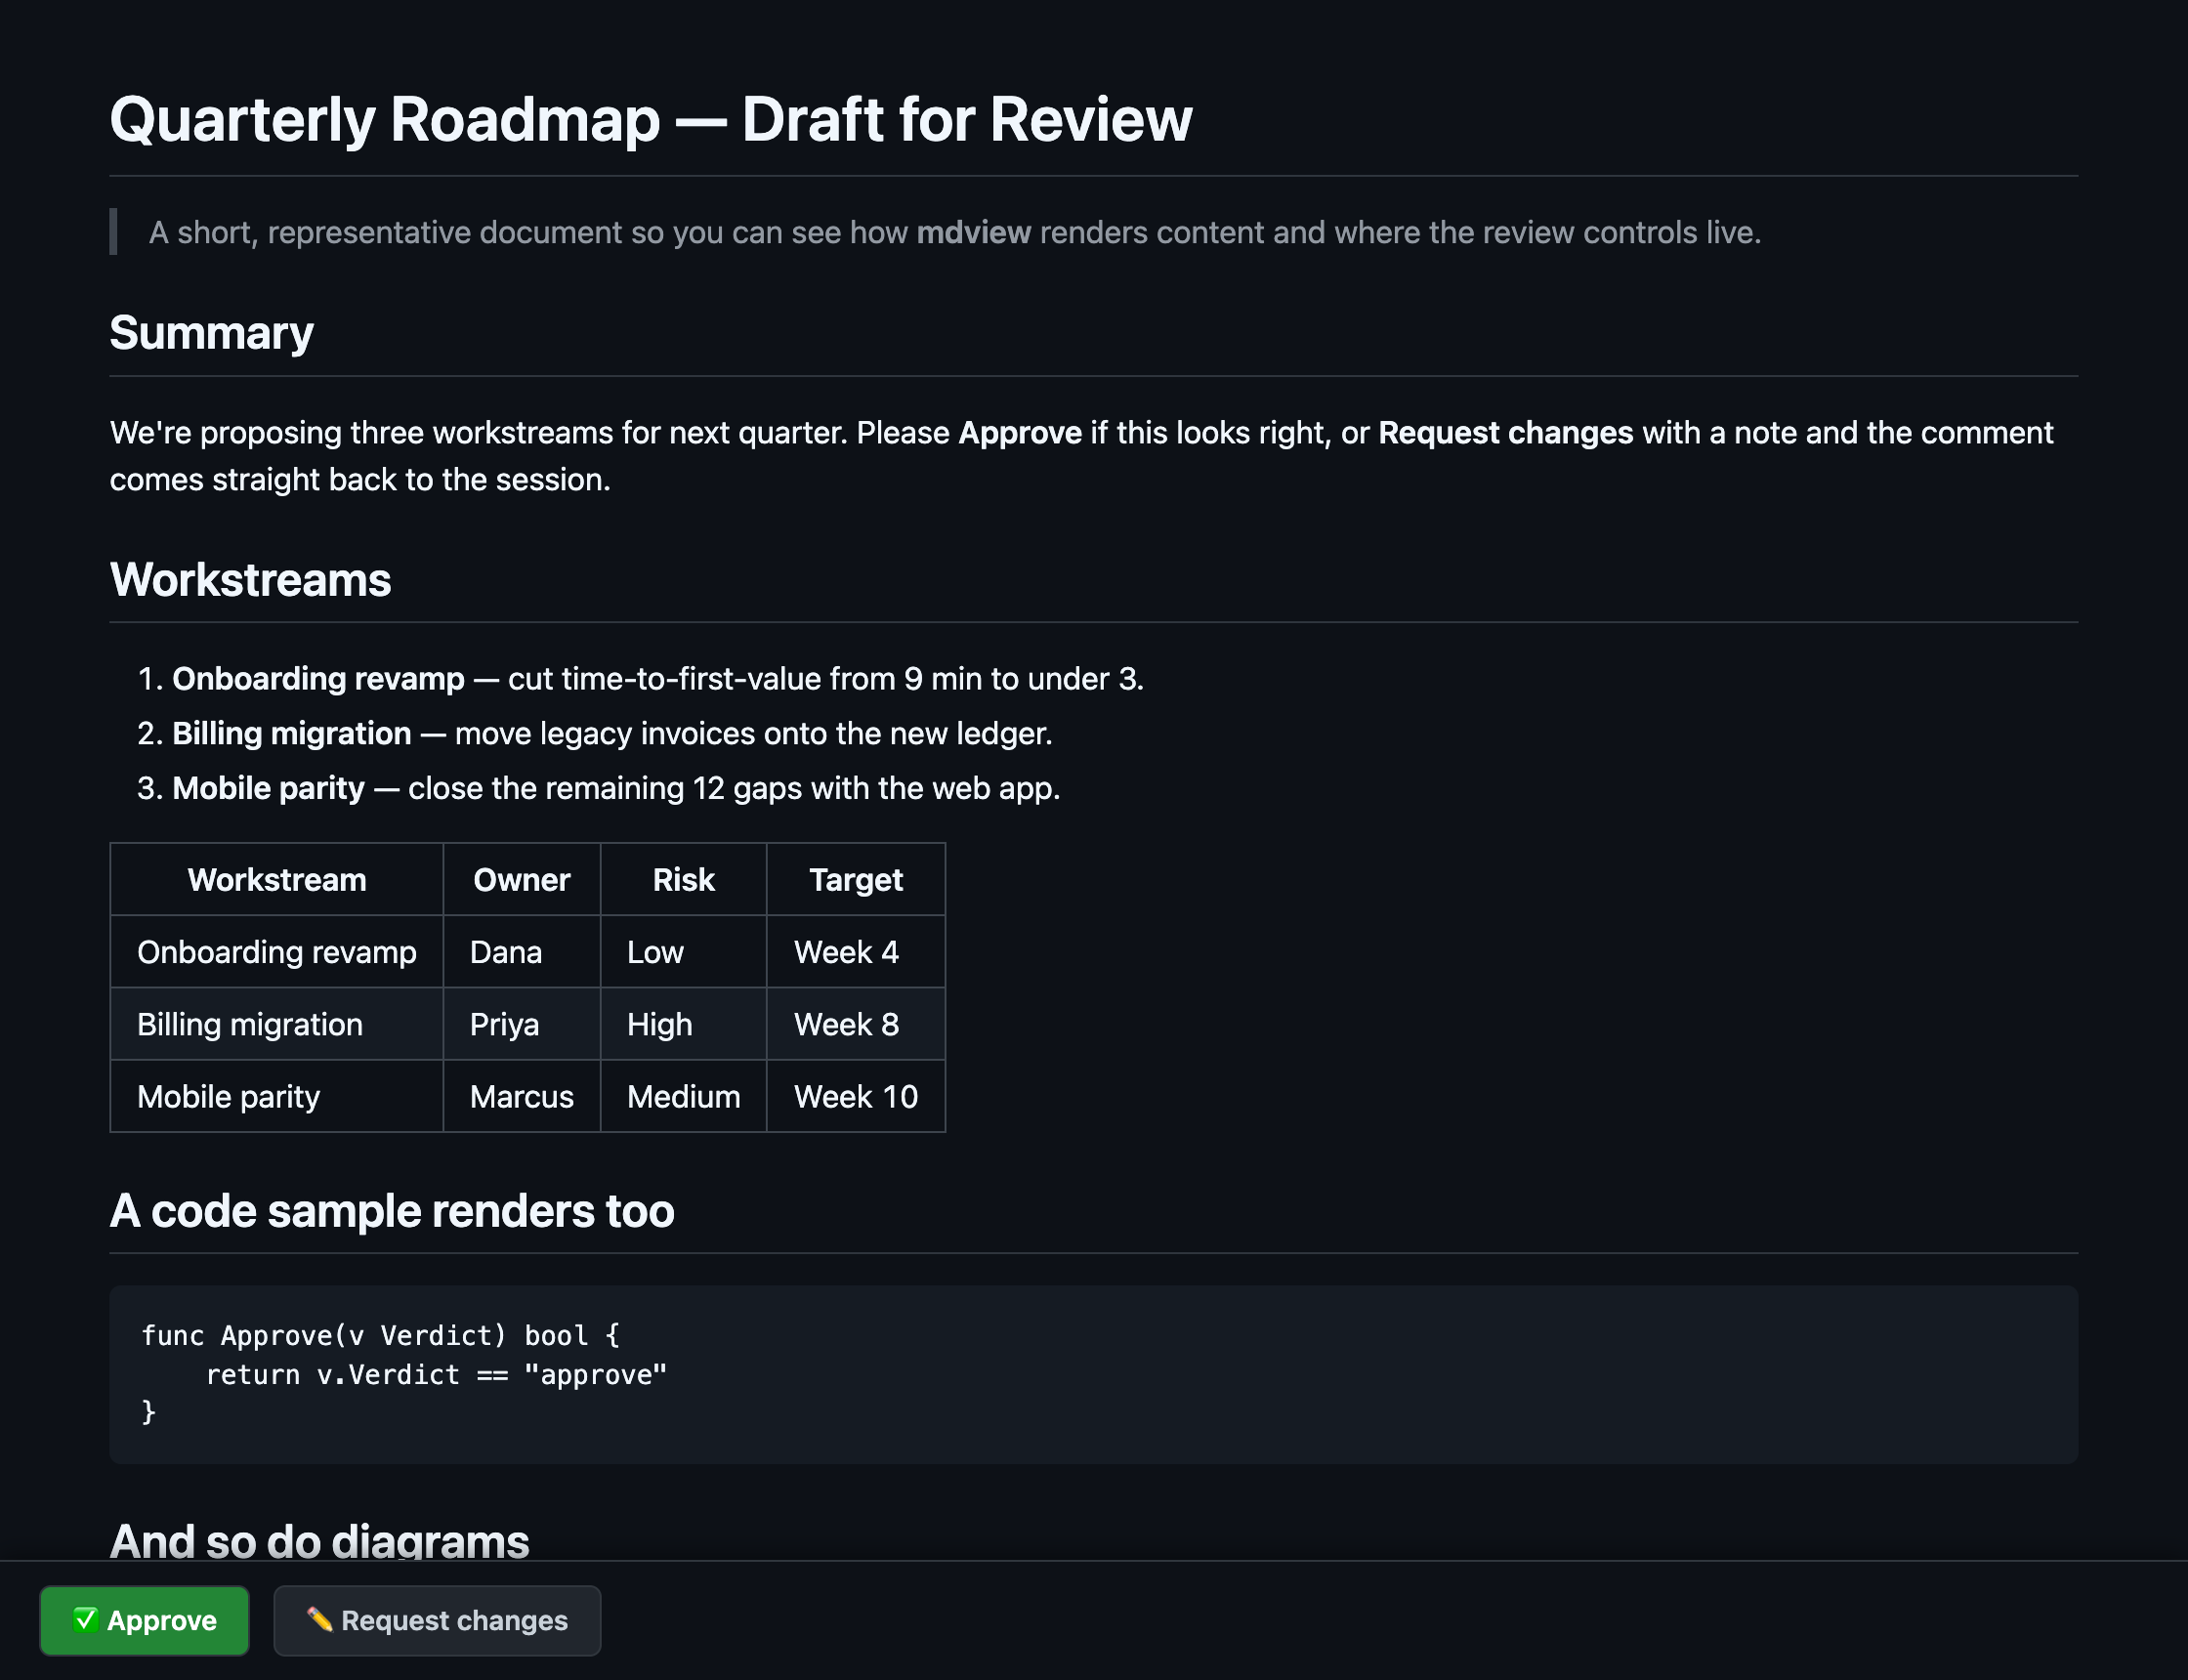
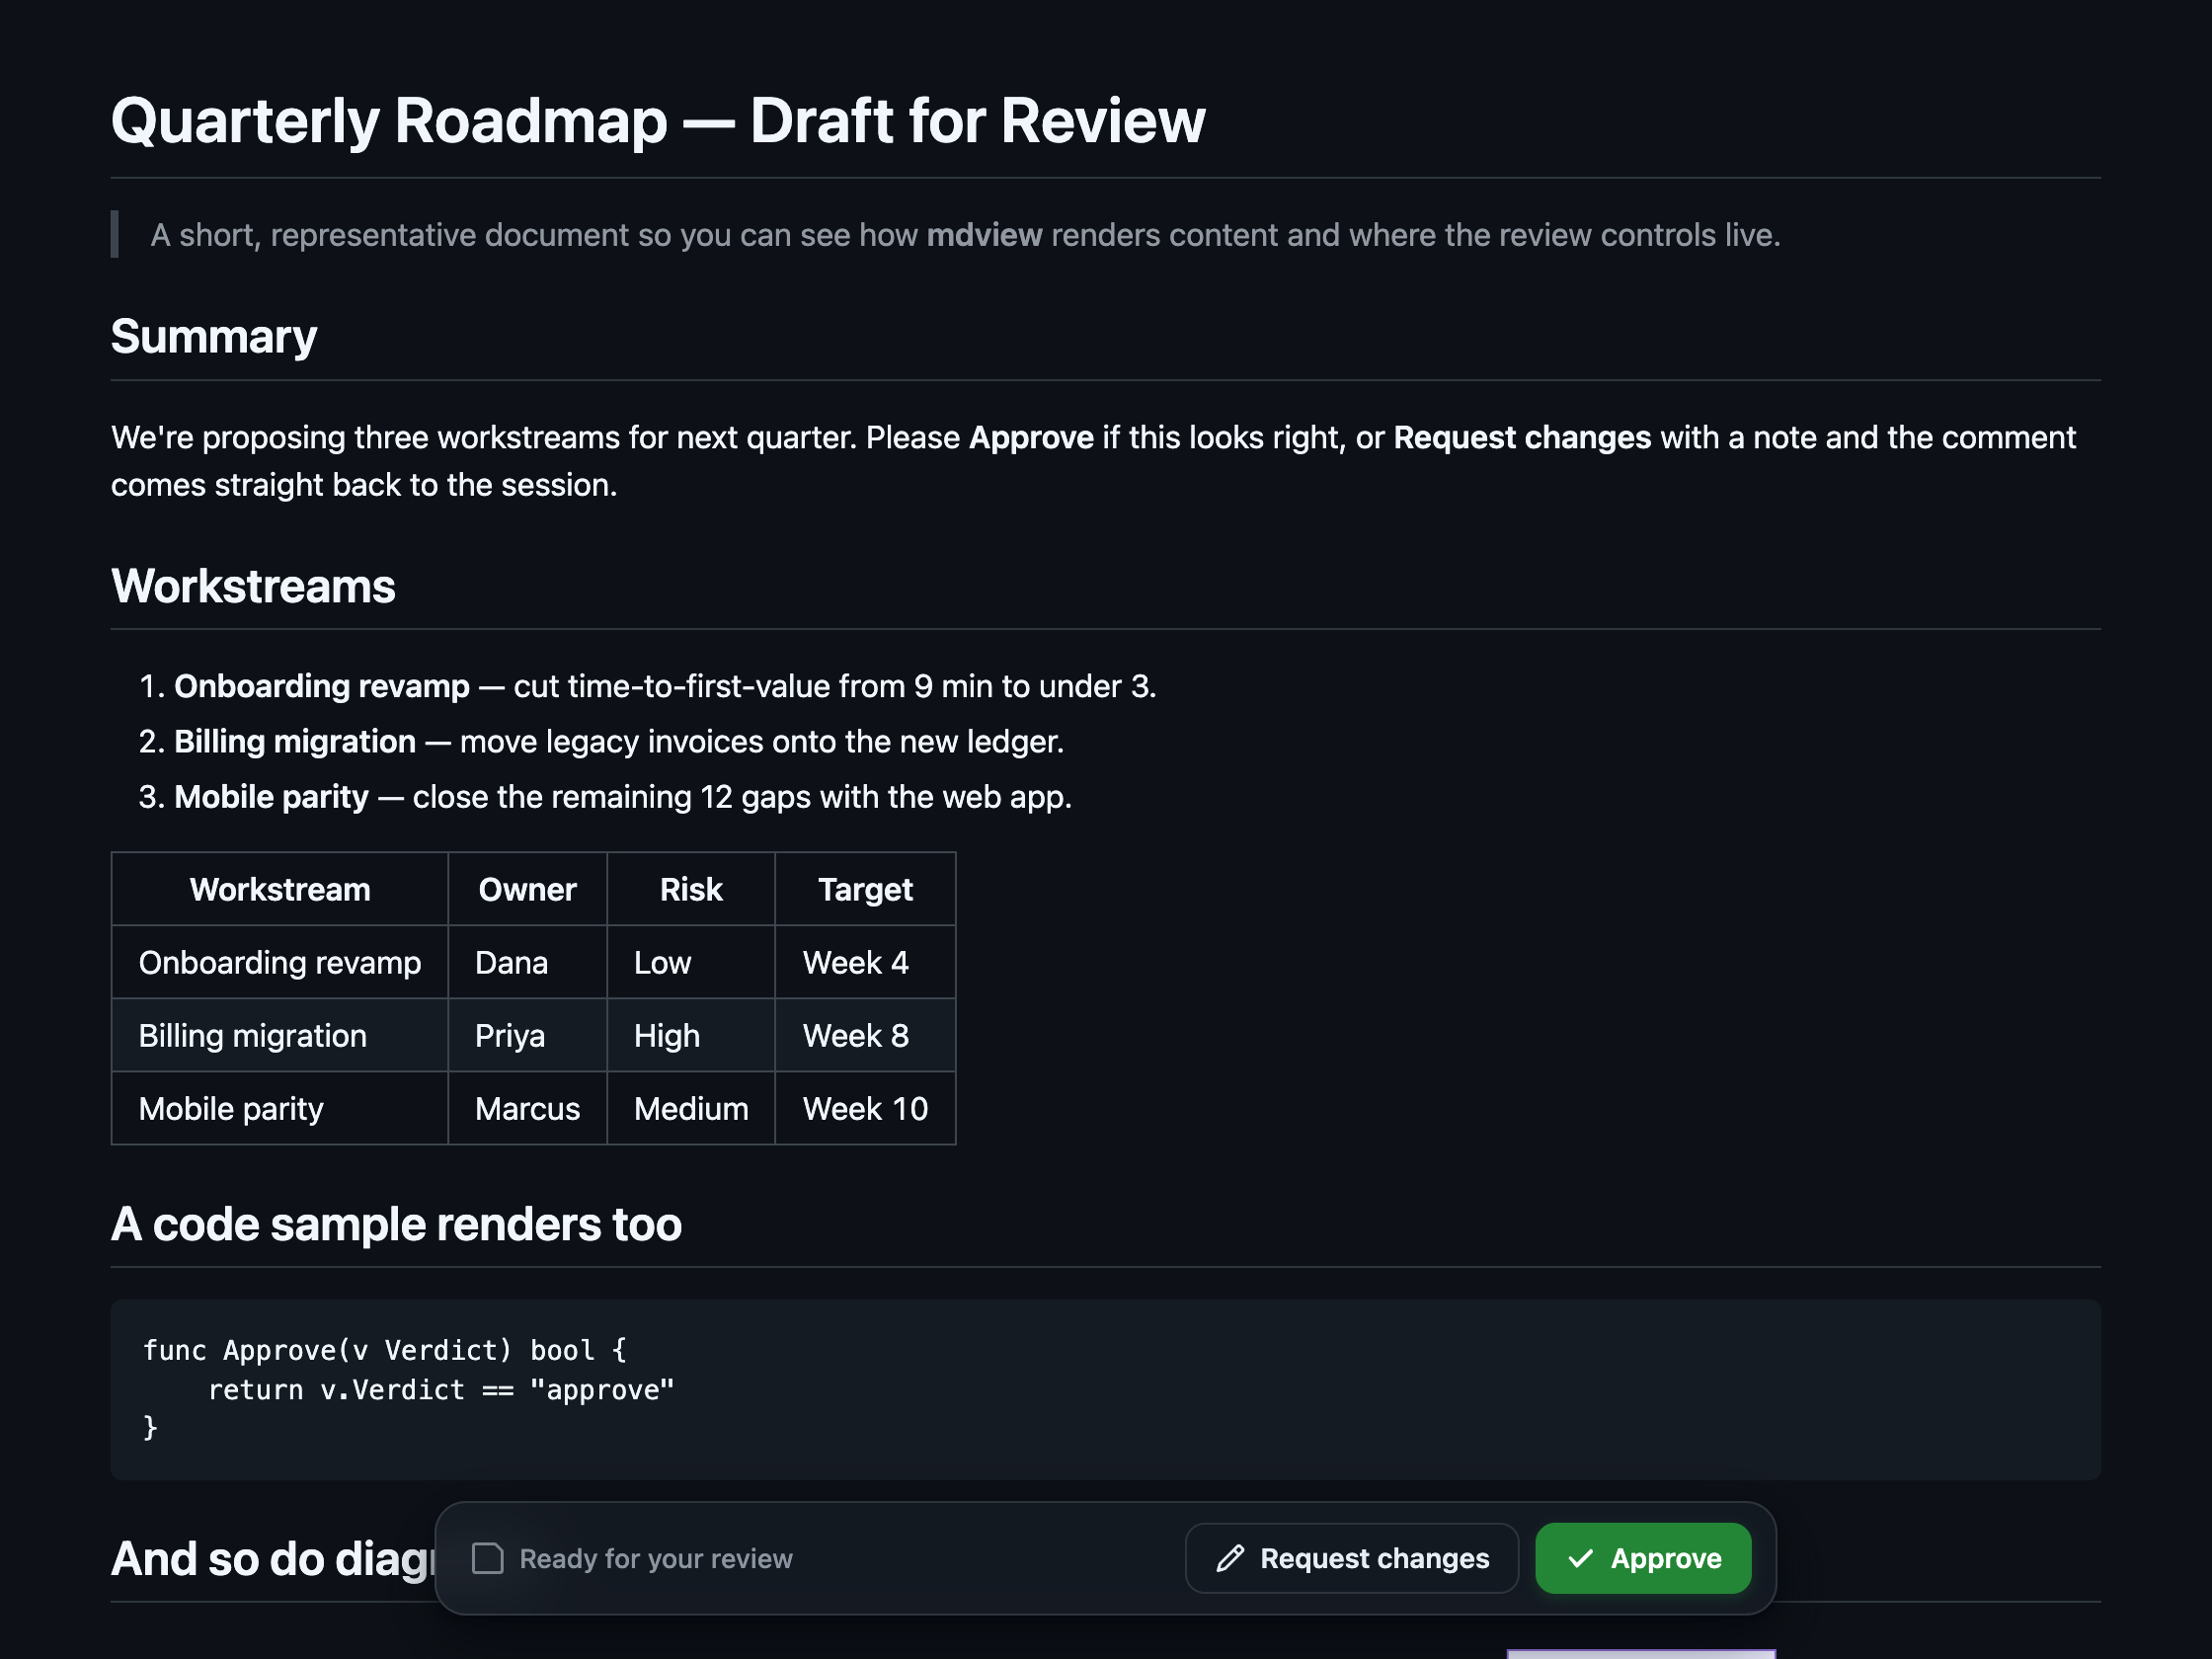
feat(ui): premium floating review dock; flush 204, constant-time token, mermaid strict, browser-open diag; tests + new demo shots

diff --git a/internal/render/assets/review.css b/internal/render/assets/review.css
@@ -1,22 +1,92 @@
-#mdview-bar{position:fixed;left:0;right:0;bottom:0;z-index:99999;display:flex;gap:12px;
-  align-items:flex-start;padding:12px 20px;background:#fff;border-top:1px solid #d0d7de;
-  box-shadow:0 -2px 12px rgba(0,0,0,.08);font:14px -apple-system,system-ui,sans-serif;}
-#mdview-bar button{font:600 14px -apple-system,system-ui,sans-serif;padding:8px 16px;
-  border-radius:6px;border:1px solid #d0d7de;cursor:pointer;}
-#mdview-approve{background:#1f883d;color:#fff;border-color:#1a7f37;}
-#mdview-changes{background:#f6f8fa;color:#24292f;}
-#mdview-panel{display:none;flex-direction:column;gap:8px;flex:1;}
-#mdview-panel.open{display:flex;}
-#mdview-comment{width:100%;min-height:64px;padding:8px;border-radius:6px;border:1px solid #d0d7de;
-  font:14px -apple-system,system-ui,sans-serif;resize:vertical;box-sizing:border-box;}
-#mdview-panel-actions{display:flex;gap:8px;}
-#mdview-status{color:#57606a;font:14px -apple-system,system-ui,sans-serif;}
+#mdview-bar{
+  --mv-bg:rgba(255,255,255,.82);
+  --mv-border:rgba(27,31,36,.12);
+  --mv-fg:#1f2328;
+  --mv-muted:#656d76;
+  --mv-shadow:0 12px 32px rgba(31,35,40,.16),0 2px 6px rgba(31,35,40,.08);
+  --mv-primary:#1f883d;--mv-primary-2:#1a7f37;--mv-on-primary:#fff;
+  --mv-ghost-hover:rgba(27,31,36,.06);
+  --mv-field-bg:#fff;--mv-field-border:rgba(27,31,36,.15);
+  --mv-ring:rgba(31,136,61,.35);
 
-@media (prefers-color-scheme: dark) {
-  #mdview-bar{background:#0d1117;border-top-color:#30363d;box-shadow:0 -2px 12px rgba(0,0,0,.5);}
-  #mdview-bar button{border-color:#30363d;}
-  #mdview-approve{background:#238636;border-color:#2ea043;color:#fff;}
-  #mdview-changes{background:#21262d;color:#c9d1d9;}
-  #mdview-comment{background:#0d1117;color:#c9d1d9;border-color:#30363d;}
-  #mdview-status{color:#8b949e;}
+  position:fixed;left:50%;bottom:22px;z-index:99999;box-sizing:border-box;
+  width:min(680px,calc(100% - 32px));
+  background:var(--mv-bg);
+  -webkit-backdrop-filter:saturate(180%) blur(14px);backdrop-filter:saturate(180%) blur(14px);
+  border:1px solid var(--mv-border);border-radius:16px;box-shadow:var(--mv-shadow);
+  padding:10px 12px;color:var(--mv-fg);
+  font-family:-apple-system,BlinkMacSystemFont,system-ui,"Segoe UI",sans-serif;
+  animation:mv-rise .42s cubic-bezier(.2,.8,.2,1) both;
+  transition:width .2s ease;
+}
+#mdview-bar,#mdview-bar *{box-sizing:border-box}
+@keyframes mv-rise{from{opacity:0;transform:translate(-50%,16px)}to{opacity:1;transform:translate(-50%,0)}}
+#mdview-bar{transform:translateX(-50%)}
+
+#mdview-row{display:flex;align-items:center;gap:12px;justify-content:space-between}
+#mdview-label{display:inline-flex;align-items:center;gap:8px;padding-left:6px;
+  font-size:13.5px;font-weight:500;color:var(--mv-muted);white-space:nowrap}
+#mdview-label svg{width:16px;height:16px;opacity:.85}
+#mdview-buttons{display:flex;align-items:center;gap:8px}
+
+.mv-btn{display:inline-flex;align-items:center;gap:7px;cursor:pointer;
+  font-size:14px;font-weight:600;line-height:1;padding:9px 14px;border-radius:10px;
+  border:1px solid transparent;font-family:inherit;
+  transition:transform .12s ease,box-shadow .12s ease,background .12s ease,border-color .12s ease}
+.mv-btn svg{width:16px;height:16px;flex:none}
+.mv-btn:focus-visible{outline:none;box-shadow:0 0 0 3px var(--mv-ring)}
+
+.mv-primary{background:var(--mv-primary);color:var(--mv-on-primary);
+  box-shadow:0 1px 2px rgba(31,35,40,.2),0 2px 6px rgba(31,136,61,.25)}
+.mv-primary:hover{background:var(--mv-primary-2);transform:translateY(-1px);
+  box-shadow:0 4px 12px rgba(31,136,61,.35)}
+.mv-primary:active{transform:translateY(0);box-shadow:0 1px 2px rgba(31,35,40,.2)}
+.mv-primary:disabled{opacity:.5;cursor:default;transform:none;box-shadow:none}
+
+.mv-ghost{background:transparent;color:var(--mv-fg);border-color:var(--mv-border)}
+.mv-ghost:hover{background:var(--mv-ghost-hover)}
+.mv-ghost:active{transform:translateY(0)}
+
+#mdview-panel{display:none;flex-direction:column;gap:10px;padding:4px 6px 6px}
+#mdview-bar.panel-open{width:min(680px,calc(100% - 32px))}
+#mdview-bar.panel-open #mdview-row{display:none}
+#mdview-bar.panel-open #mdview-panel{display:flex;animation:mv-fade .2s ease both}
+@keyframes mv-fade{from{opacity:0;transform:translateY(4px)}to{opacity:1;transform:translateY(0)}}
+#mdview-panel-head{display:flex;align-items:center;justify-content:space-between;gap:8px}
+#mdview-panel-head>span{font-size:13.5px;font-weight:600}
+#mdview-hint{font-size:11.5px;color:var(--mv-muted);
+  font-family:ui-monospace,SFMono-Regular,Menlo,monospace;
+  background:var(--mv-ghost-hover);padding:3px 7px;border-radius:6px}
+#mdview-comment{width:100%;min-height:76px;resize:vertical;padding:10px 12px;border-radius:10px;
+  border:1px solid var(--mv-field-border);background:var(--mv-field-bg);color:var(--mv-fg);
+  font-family:inherit;font-size:14px;line-height:1.5;
+  transition:border-color .12s ease,box-shadow .12s ease}
+#mdview-comment::placeholder{color:var(--mv-muted)}
+#mdview-comment:focus{outline:none;border-color:var(--mv-primary);box-shadow:0 0 0 3px var(--mv-ring)}
+#mdview-panel-actions{display:flex;justify-content:flex-end;gap:8px}
+
+#mdview-bar.mv-done{width:min(440px,calc(100% - 32px))}
+.mv-confirm{display:flex;align-items:center;justify-content:center;gap:10px;padding:9px;
+  font-size:14px;font-weight:500;color:var(--mv-fg);animation:mv-fade .25s ease both}
+.mv-confirm svg{width:20px;height:20px;color:var(--mv-primary);flex:none}
+
+@media (prefers-color-scheme:dark){
+  #mdview-bar{
+    --mv-bg:rgba(22,27,34,.78);
+    --mv-border:rgba(240,246,252,.12);
+    --mv-fg:#e6edf3;--mv-muted:#8b949e;
+    --mv-shadow:0 12px 32px rgba(1,4,9,.6),0 2px 6px rgba(1,4,9,.5);
+    --mv-primary:#238636;--mv-primary-2:#2ea043;
+    --mv-ghost-hover:rgba(240,246,252,.08);
+    --mv-field-bg:#0d1117;--mv-field-border:rgba(240,246,252,.15);
+    --mv-ring:rgba(46,160,67,.4);
+  }
+}
+@media (prefers-reduced-motion:reduce){
+  #mdview-bar,#mdview-bar.panel-open #mdview-panel,.mv-confirm{animation:none}
+  .mv-btn{transition:none}
+}
+@media (max-width:520px){
+  #mdview-label{display:none}
+  #mdview-buttons{flex:1;justify-content:flex-end}
 }

diff --git a/internal/render/assets/review.js b/internal/render/assets/review.js
@@ -3,41 +3,59 @@
   var bar = document.getElementById("mdview-bar");
   var approve = document.getElementById("mdview-approve");
   var changes = document.getElementById("mdview-changes");
-  var panel = document.getElementById("mdview-panel");
   var comment = document.getElementById("mdview-comment");
   var submit = document.getElementById("mdview-submit");
   var cancel = document.getElementById("mdview-cancel");
   var done = false;
+
+  // Keep-alive so the server can detect a closed tab.
   try { new EventSource("/events"); } catch (e) {}
-  function setStatus(msg) {
+
+  var CHECK = '<svg viewBox="0 0 16 16" fill="currentColor" aria-hidden="true"><path d="M8 0a8 8 0 1 1 0 16A8 8 0 0 1 8 0Zm3.78 5.97a.75.75 0 0 0-1.06 0L7 9.69 5.28 7.97a.75.75 0 0 0-1.06 1.06l2.25 2.25a.75.75 0 0 0 1.06 0l4.25-4.25a.75.75 0 0 0 0-1.06Z"/></svg>';
+
+  function finish(msg, ok) {
+    bar.classList.remove("panel-open");
+    bar.classList.add("mv-done");
+    var span = document.createElement("span");
+    span.textContent = msg;
     bar.innerHTML = "";
-    var s = document.createElement("div");
-    s.id = "mdview-status"; s.textContent = msg; bar.appendChild(s);
+    var wrap = document.createElement("div");
+    wrap.className = "mv-confirm";
+    if (ok) wrap.innerHTML = CHECK;
+    wrap.appendChild(span);
+    bar.appendChild(wrap);
   }
+
   function send(payload) {
-    if (done) return; done = true;
+    if (done) return;
+    done = true;
     fetch("/verdict", {
       method: "POST",
       headers: { "Content-Type": "application/json", "Authorization": "Bearer " + TOKEN },
       body: JSON.stringify(payload)
     }).then(function (r) {
-      if (r.ok) setStatus("✓ Sent — you can close this tab.");
-      else { done = false; setStatus("Could not send (HTTP " + r.status + ")."); }
-    }).catch(function () { setStatus("Review session ended."); });
+      if (r.ok) finish("Sent — you can close this tab.", true);
+      else finish("Couldn't record your response — please re-run.", false);
+    }).catch(function () {
+      finish("Review session ended.", false);
+    });
   }
+
   approve.addEventListener("click", function () { send({ verdict: "approve" }); });
   changes.addEventListener("click", function () {
-    panel.classList.add("open"); approve.style.display = "none"; changes.style.display = "none";
+    bar.classList.add("panel-open");
     comment.focus();
   });
-  cancel.addEventListener("click", function () {
-    panel.classList.remove("open"); approve.style.display = ""; changes.style.display = "";
-  });
+  cancel.addEventListener("click", function () { bar.classList.remove("panel-open"); });
   comment.addEventListener("input", function () { submit.disabled = comment.value.trim() === ""; });
-  function doSubmit() { var c = comment.value.trim(); if (c) send({ verdict: "changes", comment: c }); }
+
+  function doSubmit() {
+    var c = comment.value.trim();
+    if (c) send({ verdict: "changes", comment: c });
+  }
   submit.addEventListener("click", doSubmit);
   comment.addEventListener("keydown", function (e) {
     if ((e.metaKey || e.ctrlKey) && e.key === "Enter") { e.preventDefault(); doSubmit(); }
-    if (e.key === "Escape") { cancel.click(); }
+    if (e.key === "Escape") { bar.classList.remove("panel-open"); }
   });
 })();

diff --git a/internal/render/assets/review.html b/internal/render/assets/review.html
@@ -1,12 +1,32 @@
-<div id="mdview-bar">
-  <button id="mdview-approve" type="button">✅ Approve</button>
-  <button id="mdview-changes" type="button">✏️ Request changes</button>
+<div id="mdview-bar" role="region" aria-label="Document review">
+  <div id="mdview-row">
+    <span id="mdview-label">
+      <svg viewBox="0 0 16 16" fill="currentColor" aria-hidden="true"><path d="M1.75 1.5a.25.25 0 0 0-.25.25v12.5c0 .138.112.25.25.25h12.5a.25.25 0 0 0 .25-.25V4.664a.25.25 0 0 0-.073-.177L11.513 1.573a.25.25 0 0 0-.177-.073H1.75ZM0 1.75C0 .784.784 0 1.75 0h9.586c.464 0 .909.184 1.237.513l2.914 2.914c.329.328.513.773.513 1.237V14.25A1.75 1.75 0 0 1 14.25 16H1.75A1.75 1.75 0 0 1 0 14.25Z"/></svg>
+      Ready for your review
+    </span>
+    <div id="mdview-buttons">
+      <button id="mdview-changes" type="button" class="mv-btn mv-ghost">
+        <svg viewBox="0 0 16 16" fill="currentColor" aria-hidden="true"><path d="M11.013 1.427a1.75 1.75 0 0 1 2.474 0l1.086 1.086a1.75 1.75 0 0 1 0 2.474l-8.61 8.61c-.21.21-.47.364-.756.445l-3.251.93a.75.75 0 0 1-.927-.928l.929-3.25c.081-.286.235-.547.445-.758l8.61-8.61Zm.176 4.823L9.75 4.81l-6.286 6.287a.253.253 0 0 0-.064.108l-.558 1.953 1.953-.558a.253.253 0 0 0 .108-.064Zm1.238-3.762a.25.25 0 0 0-.354 0L10.811 3.75l1.439 1.44 1.263-1.263a.25.25 0 0 0 0-.354Z"/></svg>
+        <span>Request changes</span>
+      </button>
+      <button id="mdview-approve" type="button" class="mv-btn mv-primary">
+        <svg viewBox="0 0 16 16" fill="currentColor" aria-hidden="true"><path d="M13.78 4.22a.75.75 0 0 1 0 1.06l-7.25 7.25a.75.75 0 0 1-1.06 0L1.97 8.28a.75.75 0 0 1 1.06-1.06L6 10.19l6.72-6.72a.75.75 0 0 1 1.06 0Z"/></svg>
+        <span>Approve</span>
+      </button>
+    </div>
+  </div>
   <div id="mdview-panel">
-    <label for="mdview-comment">What should change?</label>
-    <textarea id="mdview-comment" placeholder="Describe the changes…"></textarea>
+    <div id="mdview-panel-head">
+      <span>Request changes</span>
+      <kbd id="mdview-hint">⌘ + Enter to send</kbd>
+    </div>
+    <textarea id="mdview-comment" rows="3" placeholder="What should change?"></textarea>
     <div id="mdview-panel-actions">
-      <button id="mdview-submit" type="button" disabled>Submit feedback</button>
-      <button id="mdview-cancel" type="button">Cancel</button>
+      <button id="mdview-cancel" type="button" class="mv-btn mv-ghost"><span>Cancel</span></button>
+      <button id="mdview-submit" type="button" class="mv-btn mv-primary" disabled>
+        <svg viewBox="0 0 16 16" fill="currentColor" aria-hidden="true"><path d="M.989 8 .064 2.68A1.342 1.342 0 0 1 1.913 1.22l13.402 5.744a1.13 1.13 0 0 1 0 2.076L1.913 14.78A1.342 1.342 0 0 1 .064 13.32L.99 8Zm.603-5.288L2.38 7.25h4.87a.75.75 0 0 1 0 1.5H2.38l-.788 4.538L13.929 8Z"/></svg>
+        <span>Send feedback</span>
+      </button>
     </div>
   </div>
 </div>

diff --git a/internal/server/server_test.go b/internal/server/server_test.go
@@ -125,3 +125,38 @@ func TestTabClose(t *testing.T) {
 		t.Fatalf("got %+v", v)
 	}
 }
+
+// Guards the flush fix: with a live SSE client attached, a POSTed verdict must still receive
+// its 204 and Wait must return — exercising the most concurrent path (client + decide).
+func TestVerdictReachesClientWithLiveSSE(t *testing.T) {
+	h, _ := Start(Options{Page: "p", Token: "tok",
+		NoClientTimeout: time.Hour, MaxLifetime: time.Hour, TabCloseGrace: time.Hour})
+	t.Cleanup(func() { h.Close() })
+
+	ctx, cancel := context.WithCancel(context.Background())
+	defer cancel()
+	req, _ := http.NewRequestWithContext(ctx, "GET", h.URL+"events", nil)
+	resp, err := http.DefaultClient.Do(req)
+	if err != nil {
+		t.Fatal(err)
+	}
+	if resp.StatusCode != 200 {
+		t.Fatalf("events = %d", resp.StatusCode)
+	}
+
+	if got := post(t, h.URL+"verdict", "tok", `{"verdict":"approve"}`); got != 204 {
+		t.Fatalf("verdict with live SSE = %d, want 204", got)
+	}
+	if v := h.Wait(); v.Verdict != "approve" {
+		t.Fatalf("got %+v", v)
+	}
+}
+
+func TestOrphanedPredicate(t *testing.T) {
+	if !orphaned(1) {
+		t.Error("ppid 1 should be orphaned")
+	}
+	if orphaned(1234) {
+		t.Error("ppid 1234 should not be orphaned")
+	}
+}

diff --git a/internal/server/server.go b/internal/server/server.go
@@ -2,6 +2,7 @@ package server
 
 import (
 	"context"
+	"crypto/subtle"
 	"encoding/json"
 	"fmt"
 	"io"
@@ -137,25 +138,35 @@ func (h *Handle) handleVerdict(w http.ResponseWriter, r *http.Request) {
 			}
 		}
 	}
-	if provided != h.token {
+	if subtle.ConstantTimeCompare([]byte(provided), []byte(h.token)) != 1 {
 		w.WriteHeader(http.StatusForbidden)
 		return
 	}
+
+	var v Verdict
 	switch in.Verdict {
 	case "approve":
-		w.WriteHeader(http.StatusNoContent)
-		h.decide(Verdict{Verdict: "approve"})
+		v = Verdict{Verdict: "approve"}
 	case "changes":
 		c := strings.TrimSpace(in.Comment)
 		if c == "" {
 			w.WriteHeader(http.StatusBadRequest)
 			return
 		}
-		w.WriteHeader(http.StatusNoContent)
-		h.decide(Verdict{Verdict: "changes", Comment: c})
+		v = Verdict{Verdict: "changes", Comment: c}
 	default:
 		w.WriteHeader(http.StatusBadRequest)
+		return
 	}
+
+	// Flush the 204 to the client before deciding: Wait() unblocks the moment we decide and
+	// main may os.Exit immediately, so flushing guarantees the browser receives the response
+	// (and shows "Sent") rather than seeing a truncated connection.
+	w.WriteHeader(http.StatusNoContent)
+	if f, ok := w.(http.Flusher); ok {
+		f.Flush()
+	}
+	h.decide(v)
 }
 
 // handleEvents is an SSE keep-alive used to detect a closed tab.
@@ -218,9 +229,14 @@ func (h *Handle) lifecycle(o Options) {
 		case <-maxLife.C:
 			h.decide(Verdict{Verdict: "dismissed"})
 		case <-ppid.C:
-			if os.Getppid() == 1 { // POSIX: reparented to init when the launcher dies. No-op on Windows.
+			if orphaned(os.Getppid()) {
 				h.decide(Verdict{Verdict: "dismissed"})
 			}
 		}
 	}
 }
+
+// orphaned reports whether the process has been reparented to init (ppid 1), i.e. the
+// launching session died. POSIX-only signal; on Windows ppid never becomes 1, so this is a
+// no-op there and cleanup relies on the no-client + max-lifetime backstops instead.
+func orphaned(ppid int) bool { return ppid == 1 }

diff --git a/internal/render/render.go b/internal/render/render.go
@@ -42,7 +42,7 @@ func Page(src []byte, token string) (string, error) {
 	b.WriteString(`<meta name="viewport" content="width=device-width, initial-scale=1">`)
 	b.WriteString(`<title>mdview review</title><style>`)
 	b.WriteString(githubCSS)
-	b.WriteString("\nbody{box-sizing:border-box;margin:0;padding:2.5rem clamp(1rem,5vw,5rem) 110px;}")
+	b.WriteString("\nbody{box-sizing:border-box;margin:0;padding:2.5rem clamp(1rem,5vw,5rem) 130px;}")
 	b.WriteString("\n.mermaid{margin:1rem 0;}\n")
 	b.WriteString(reviewCSS)
 	b.WriteString(`</style></head><body class="markdown-body">`)
@@ -53,7 +53,7 @@ func Page(src []byte, token string) (string, error) {
 		b.WriteString(strings.ReplaceAll(mermaidJS, "</script", `<\/script`))
 		b.WriteString("</script><script>")
 		b.WriteString(`document.querySelectorAll("pre>code.language-mermaid").forEach(function(c){var d=document.createElement("div");d.className="mermaid";d.textContent=c.textContent;c.parentElement.replaceWith(d);});`)
-		b.WriteString(`mermaid.initialize({startOnLoad:false,theme:"default",securityLevel:"loose",maxTextSize:1000000,maxEdges:5000});mermaid.run({querySelector:".mermaid"});`)
+		b.WriteString(`mermaid.initialize({startOnLoad:false,theme:"default",securityLevel:"strict",maxTextSize:1000000,maxEdges:5000});mermaid.run({querySelector:".mermaid"});`)
 		b.WriteString("</script>")
 	}
 	b.WriteString("<script>")

diff --git a/main.go b/main.go
@@ -96,5 +96,7 @@ func openBrowser(url string) {
 	default:
 		cmd = exec.Command("xdg-open", url)
 	}
-	_ = cmd.Start()
+	if err := cmd.Start(); err != nil {
+		fmt.Fprintf(os.Stderr, "mdview: couldn't open a browser (%v) — open %s manually\n", err, url)
+	}
 }